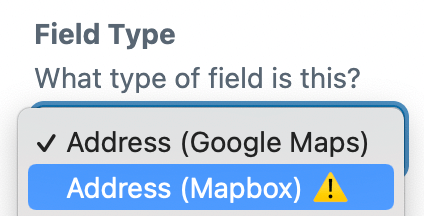
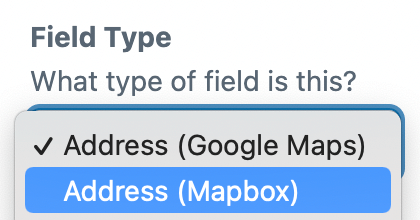
Registered compatibility for the Address field

diff --git a/src/MapboxPlugin.php b/src/MapboxPlugin.php
@@ -16,6 +16,7 @@ use craft\base\Field;
 use craft\base\Model;
 use craft\base\Plugin;
 use craft\events\ConfigEvent;
+use craft\events\DefineCompatibleFieldTypesEvent;
 use craft\events\ModelEvent;
 use craft\events\PluginEvent;
 use craft\events\RegisterComponentTypesEvent;
@@ -63,6 +64,7 @@ class MapboxPlugin extends Plugin
 
         // Register all events
         $this->_registerFieldType();
+        $this->_registerCompatibleFieldTypes();
 
         // Manage conversions of the Address field
         $this->_manageFieldTypeConversions();
@@ -119,13 +121,34 @@ class MapboxPlugin extends Plugin
     }
 
     /**
+     * Register all field type compatibility.
+     * Declare THIS field safe for OTHER fields.
+     *
+     * @return void
+     */
+    private function _registerCompatibleFieldTypes(): void
+    {
+        Event::on(
+            Fields::class,
+            Fields::EVENT_DEFINE_COMPATIBLE_FIELD_TYPES,
+            static function (DefineCompatibleFieldTypesEvent $event) {
+                // If it's a Google Maps field
+                if (is_a($event->field, 'doublesecretagency\googlemaps\fields\AddressField')) {
+                    // Tell it that the Mapbox field is compatible
+                    $event->compatibleTypes[] = AddressField::class;
+                }
+            }
+        );
+    }
+
+    /**
      * Manage conversions of the Address field from the Google Maps plugin.
      *
      * @return void
      */
     private function _manageFieldTypeConversions(): void
     {
-        // If Google Maps plugin is not installed, bail
+        // If Google Maps plugin is not installed and enabled, bail
         if (!Craft::$app->getPlugins()->isPluginEnabled('google-maps')) {
             return;
         }

diff --git a/src/fields/AddressField.php b/src/fields/AddressField.php
@@ -340,7 +340,7 @@ class AddressField extends Field implements PreviewableFieldInterface
         // Register assets
         $view->registerAssetBundle(AddressFieldAsset::class);
 
-        // Load fieldtype input template
+        // Load field type input template
         return $view->renderTemplate('mapbox/address', [
             'config' => [
                 'namespace' => [
@@ -370,7 +370,7 @@ class AddressField extends Field implements PreviewableFieldInterface
         // Register assets
         $view->registerAssetBundle(AddressFieldSettingsAsset::class);
 
-        // Load fieldtype settings template
+        // Load field type settings template
         return $view->renderTemplate('mapbox/address-settings', [
             'config' => [
                 'namespace' => [

diff --git a/docs/guides/converting-from-google-maps.md b/docs/guides/converting-from-google-maps.md
@@ -29,13 +29,7 @@ meta:
 
 Converting from an "Address (Google Maps)" field to an "Address (Mapbox)" field is relatively straightforward... simply **switch the field type** on the field's settings page.
 
-<img class="dropshadow" :src="$withBase('/images/guides/switch-field-type.png')" alt="Screenshot of field type select being switched to Mapbox (Address)" width="212" style="margin-left:20px; margin-bottom:4px;">
-
-:::warning Ignorable Warning ⚠
-You might be warned that these two field types are not compatible, but they actually are!
-
-It is safe to ignore the warning about field type compatibility.
-:::
+<img class="dropshadow" :src="$withBase('/images/guides/switch-field-type.png')" alt="Screenshot of field type select being switched to Address (Mapbox)" width="210" style="margin-left:20px; margin-bottom:4px;">
 
 Once you have saved the field as an "Address (Mapbox)" field, all data associated with that field will automatically be imported into the Mapbox plugin.
 

diff --git a/CHANGELOG.md b/CHANGELOG.md
@@ -3,6 +3,7 @@
 ## Unreleased
 
 ### Changed
+- Marked Address field as compatible with the Google Maps plugin.
 - Now requires a minimum of Craft 4.5.7.
 
 ## 1.1.1 - 2023-10-18
